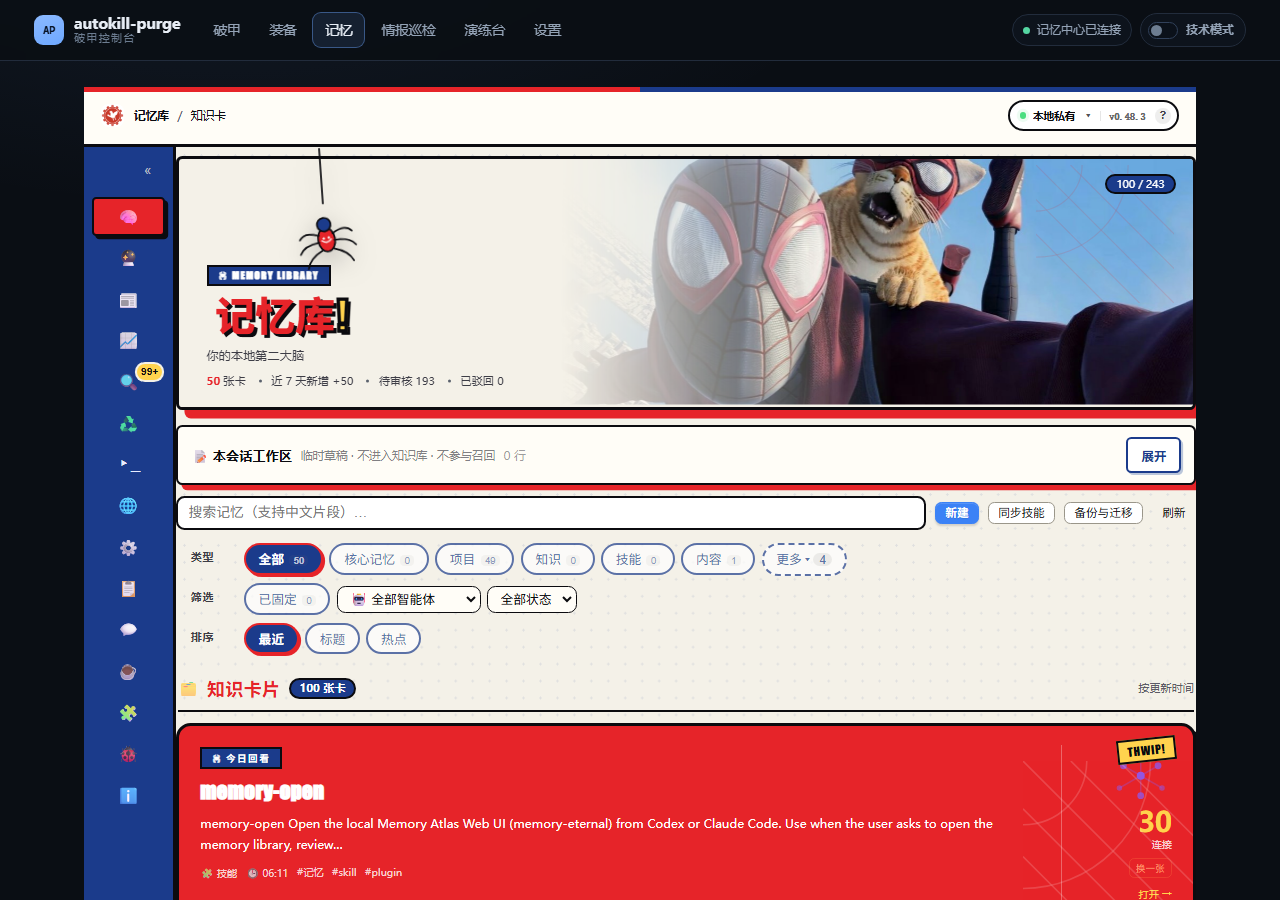
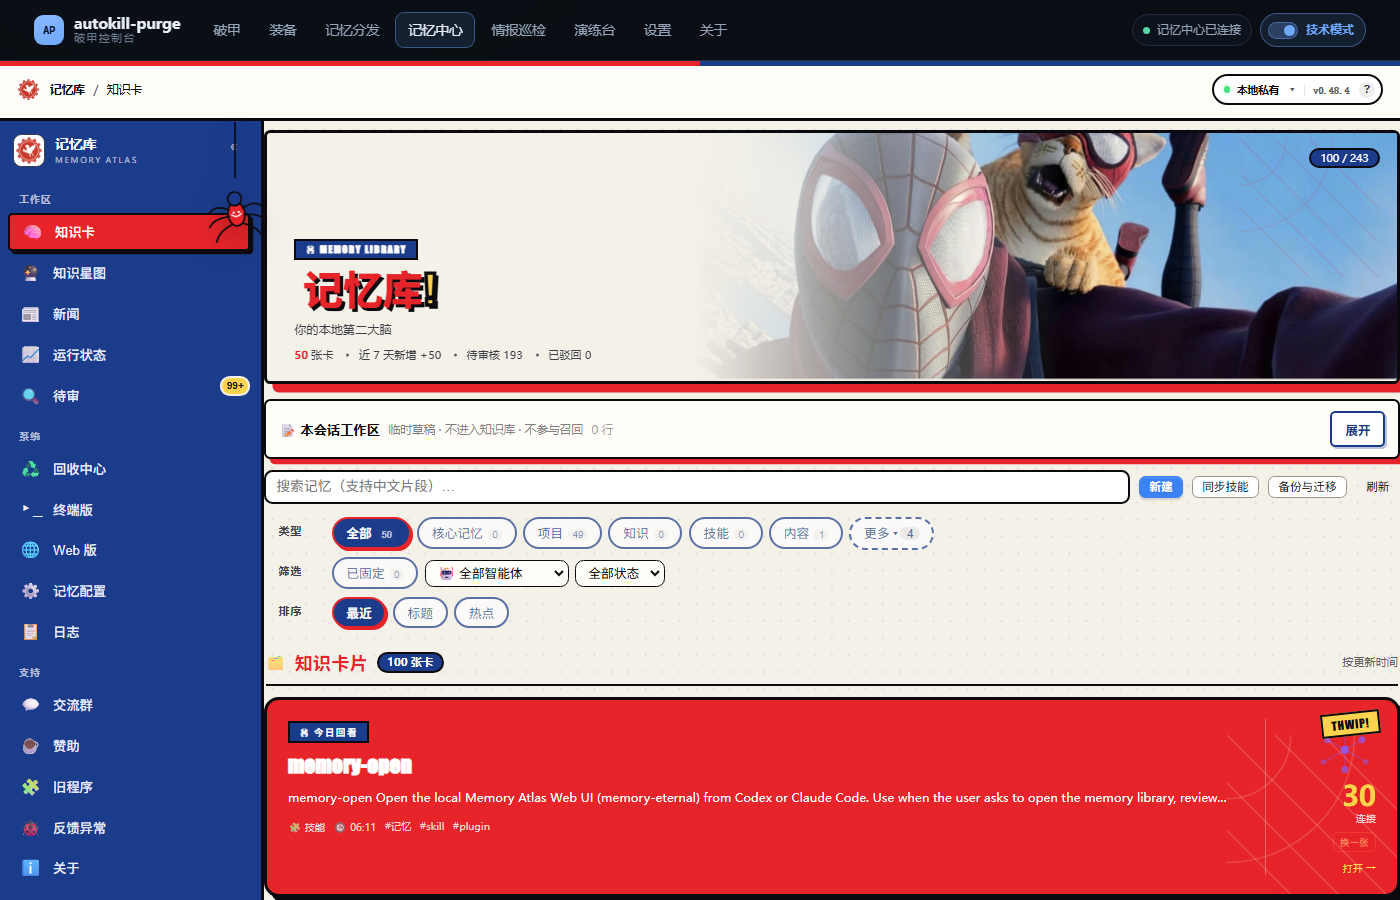
fix(memory): 记忆库整页贴边——清掉 <main> 的限宽/内边距，用 flex 吃掉顶栏剩余高度
之前 iframe 被三重挤压：main 的 width min(1180px) + padding 26/90px，加上技术模式那条
`tech-hint` 提示条（49px 高）把面板再往下顶，总高溢出 63px。

改法：
- memoryFullPage() 给 body 打 mem-mode；renderPage() 每次先移除（切页要恢复常规布局）。
- body.mem-mode 用 flex 列撑满视口：body → #app → main → #page → .mem-full → iframe 全链 flex:1 + min-height:0，
  iframe height:100%（不再写死 calc(100vh - 60px)），border/radius/margin/padding 全 0。
- 记忆页不再插 tech-hint（`S.tab !== "memory"`），省掉那 49px。

实测（1400×900）：topbar 0-61；main/#page/.mem-full/iframe 全部 top=61、height=839；
iframe 计算样式 border=0px radius=0px margin=0px；页面 scrollHeight=900 = innerHeight，无溢出。
390 宽：iframe 390×669、无横向滚动。
回归：ux2layer-ui 16/16、acceptance 21/21、ux2layer 18/18、ac-check 19/19。

diff --git a/web/public/style.css b/web/public/style.css
@@ -884,3 +884,99 @@ textarea.shake {
 @media (max-width: 720px) {
   .mem-full iframe { height: calc(100vh - 52px); }
 }
+
+/* 记忆库整页铺满：这一页不要 <main> 的限宽与内边距，也不要有任何 margin */
+body.mem-mode main {
+  width: 100% !important;
+  max-width: none !important;
+  margin: 0 !important;
+  padding: 0 !important;
+}
+body.mem-mode #page {
+  margin: 0 !important;
+  padding: 0 !important;
+  max-width: none !important;
+}
+body.mem-mode .mem-full {
+  margin: 0 !important;
+  padding: 0 !important;
+  width: 100%;
+}
+body.mem-mode .mem-full iframe {
+  display: block;
+  width: 100%;
+  height: calc(100vh - 59px);
+  margin: 0;
+  padding: 0;
+  border: 0;
+  border-radius: 0;
+  background: #0b0f18;
+}
+@media (max-width: 720px) {
+  body.mem-mode .mem-full iframe { height: calc(100vh - 53px); }
+}
+
+/* 记忆库整页：用 flex 吃掉顶栏剩下的全部高度，并清掉 #globalAlert 的占位空隙 */
+body.mem-mode {
+  display: flex;
+  flex-direction: column;
+  min-height: 100vh;
+}
+body.mem-mode .topbar { flex: 0 0 auto; }
+body.mem-mode #globalAlert { display: none !important; }
+body.mem-mode main {
+  flex: 1 1 auto;
+  min-height: 0;
+  display: flex;
+  flex-direction: column;
+  width: 100% !important;
+  max-width: none !important;
+  margin: 0 !important;
+  padding: 0 !important;
+}
+body.mem-mode #page {
+  flex: 1 1 auto;
+  min-height: 0;
+  margin: 0 !important;
+  padding: 0 !important;
+  max-width: none !important;
+}
+body.mem-mode .mem-full {
+  height: 100%;
+  margin: 0 !important;
+  padding: 0 !important;
+  width: 100%;
+}
+body.mem-mode .mem-full iframe {
+  display: block;
+  width: 100%;
+  height: 100%;
+  margin: 0;
+  padding: 0;
+  border: 0;
+  border-radius: 0;
+  background: #0b0f18;
+}
+
+/* 修正：flex 父容器要有确定高度，否则子项吃不到剩余空间 */
+body.mem-mode {
+  height: 100vh;
+  max-height: 100vh;
+  overflow: hidden;
+  display: flex;
+  flex-direction: column;
+}
+
+/* #app 才是 body 的直接子元素：中间层也得变成 flex 列，main 才能吃到剩余高度 */
+body.mem-mode #app {
+  flex: 1 1 auto;
+  min-height: 0;
+  display: flex;
+  flex-direction: column;
+}
+body.mem-mode #app > main {
+  flex: 1 1 auto;
+  min-height: 0;
+  display: flex;
+  flex-direction: column;
+}

diff --git a/web/public/app.js b/web/public/app.js
@@ -977,6 +977,8 @@ function renderGlobalAlert() {
 }
 
 function renderPage() {
+  // 记忆库整页铺满的标记：切到别的页面要撤掉，否则 <main> 的限宽会一直失效
+  document.body.classList.remove("mem-mode");
   setNav();
   updateModeSwitch();
   renderGlobalAlert();
@@ -1011,7 +1013,8 @@ function renderPage() {
     else if (S.tab === "drill") renderDrillPage();
     else renderSimpleSettings();
   }
-  if (modeIsTechnical()) renderTechHint();
+  // 记忆库是整页 iframe，再插一条技术模式提示会把面板往下顶 63px、还溢出
+  if (modeIsTechnical() && S.tab !== "memory") renderTechHint();
   bindGroups();
   $$('#page pre[tabindex="0"]').forEach((pre, index) => {
     if (!pre.getAttribute("aria-label")) pre.setAttribute("aria-label", "可滚动文本内容 " + (index + 1));
@@ -1815,6 +1818,7 @@ function memoryCardTime(card) {
 
 /* 内嵌 memory-eternal 面板（同源代理 /embed/memory/，见 server.mjs 的 proxyMemoryUi） */
 function memoryFullPage() {
+  document.body.classList.add("mem-mode");
   $("#page").innerHTML = `<div class="mem-full">
     <iframe src="/embed/memory/" title="记忆库" loading="eager" referrerpolicy="no-referrer"></iframe>
   </div>`;
